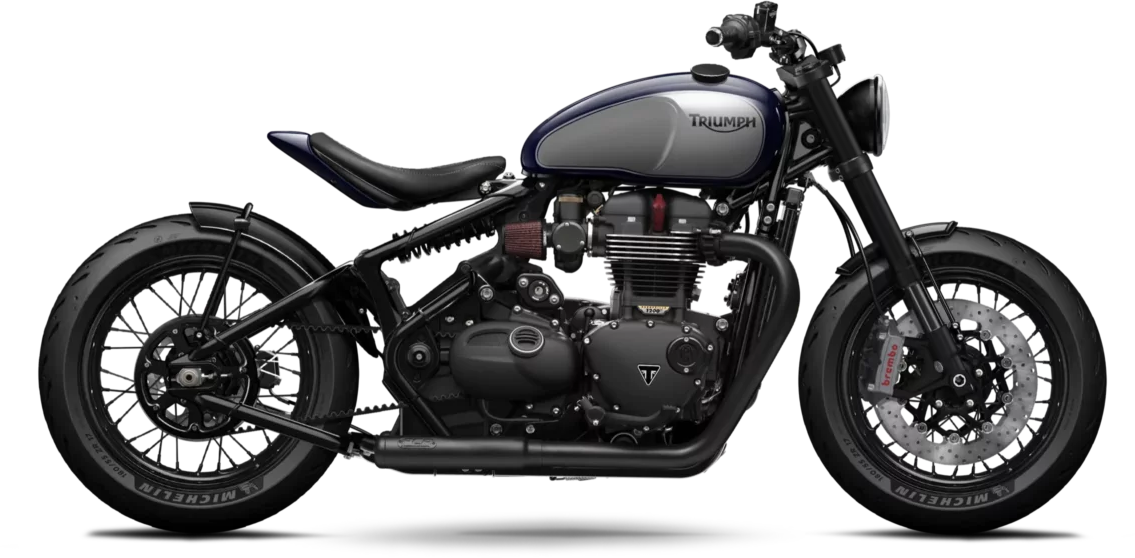
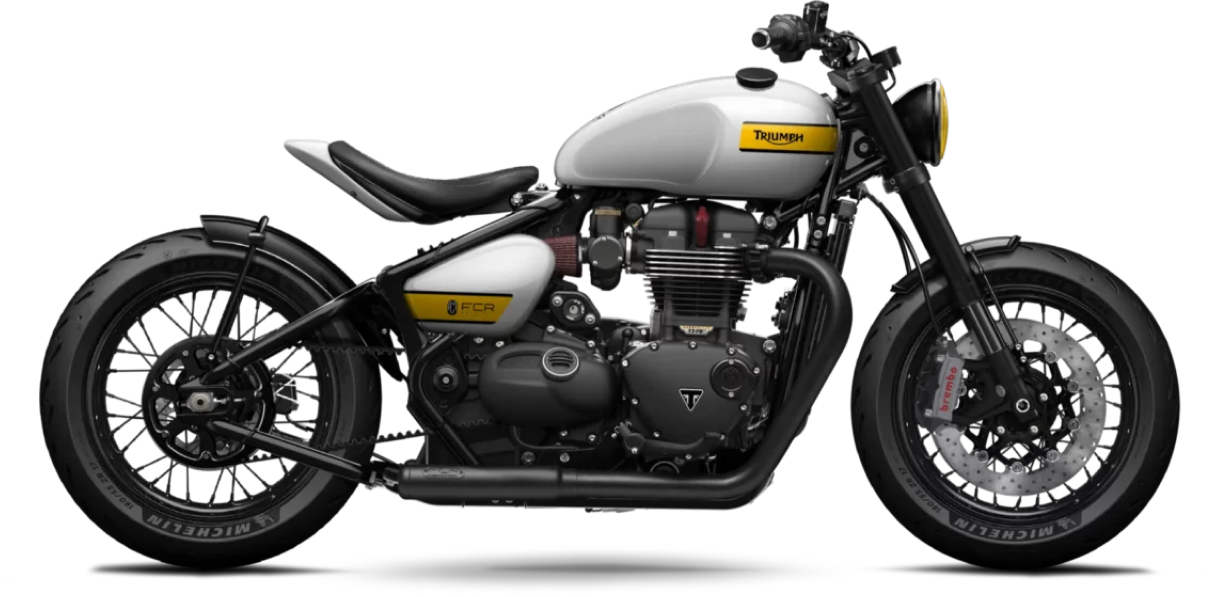
666

Changed region(s): [[0.0308, 0.0, 0.9868, 0.9749], [0.9251, 0.4875, 0.9559, 0.5484], [0.8943, 0.4265, 0.9251, 0.4875]]

diff --git a/00test/jqurey-產品顏色切換.html b/00test/jqurey-產品顏色切換.html
@@ -24,23 +24,29 @@
             /* 圖片最大寬度為父容器的100% */
             height: auto;
             /* 自動調整高度以保持圖片比例 */
+
         }
     </style>
     <script src="https://code.jquery.com/jquery-3.6.4.min.js"></script>
     <script>
         $(document).ready(function () {
-            // 點擊橘色按鈕時顯示橘色產品圖片
-            $('#orange-btn').click(function () {
-                $('.product-image').hide(); // 隱藏所有產品圖片
-                $('#orange-image').show(); // 顯示橘色產品圖片
-            });
+
 
             // 點擊紅色按鈕時顯示紅色產品圖片
             $('#red-btn').click(function () {
                 $('.product-image').hide(); // 隱藏所有產品圖片
                 $('#red-image').show(); // 顯示紅色產品圖片
             });
-
+            // 點擊灰色按鈕時顯示灰色產品圖片
+            $('#gray-btn').click(function () {
+                $('.product-image').hide(); // 隱藏所有產品圖片
+                $('#gray-image').show(); // 顯示灰色產品圖片
+            });
+            // 點擊橘色按鈕時顯示橘色產品圖片
+            $('#orange-btn').click(function () {
+                $('.product-image').hide(); // 隱藏所有產品圖片
+                $('#orange-image').show(); // 顯示橘色產品圖片
+            });
             // 點擊黃色按鈕時顯示黃色產品圖片
             $('#yellow-btn').click(function () {
                 $('.product-image').hide(); // 隱藏所有產品圖片
@@ -52,23 +58,29 @@
 
 <body>
     <div class="button-container">
-        <!-- 橘色按鈕 -->
-        <button id="orange-btn">橘色</button>
+
         <!-- 紅色按鈕 -->
         <button id="red-btn">紅色</button>
+        <!-- 灰色按鈕 -->
+        <button id="gray-btn">灰色</button>
+        <!-- 橘色按鈕 -->
+        <button id="orange-btn">橘色</button>
         <!-- 黃色按鈕 -->
         <button id="yellow-btn">黃色</button>
+
     </div>
 
     <div class="product-images">
-        <!-- 橘色產品圖片 -->
-        <img id="orange-image" class="product-image" src="test-img/bobber-orange.png" alt="橘色產品">
 
         <!-- 紅色產品圖片 -->
         <img id="red-image" class="product-image" src="test-img/bobber-red.png" alt="紅色產品">
-
+        <!-- 灰色產品圖片 -->
+        <img id="gray-image" class="product-image" src="test-img/bobber-gray.png" alt="灰色產品">
+        <!-- 橘色產品圖片 -->
+        <img id="orange-image" class="product-image" src="test-img/bobber-orange.png" alt="橘色產品">
         <!-- 黃色產品圖片 -->
         <img id="yellow-image" class="product-image" src="test-img/bobber-yellow.png" alt="黃色產品">
+
     </div>
 </body>
 

diff --git a/Contact-us/Contact-us-Banner.html b/Contact-us/Contact-us-Banner.html
@@ -12,7 +12,7 @@
         #banner {
             width: 100%;
             height: 550px;
-            background: url(img/contact-us-banner.webp) 80% 35%/cover no-repeat;
+            background: url(img/contact-us-banner.webp) 50% 45%/cover no-repeat;
             display: flex;
             justify-content: center;
             align-items: center;
